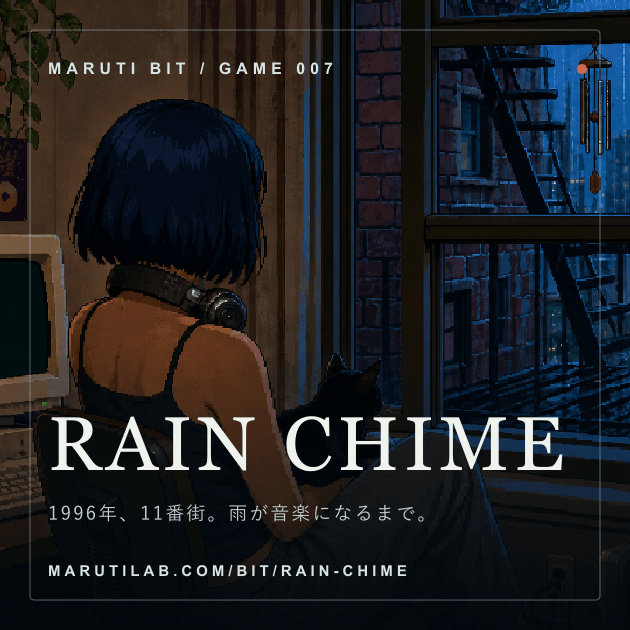
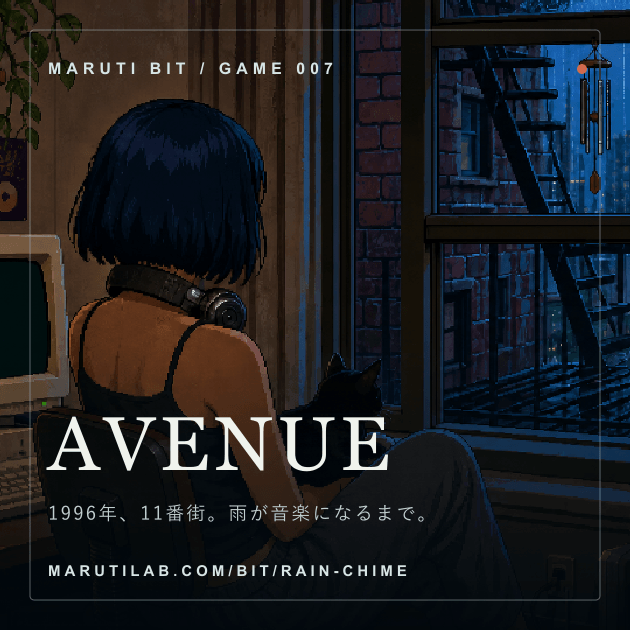
Rename RAIN CHIME to AVENUE, move controls onto the image, trim copy
- Title changed to AVENUE everywhere it's displayed (hub card, header,
  hero, entry screen, page/OGP metadata, OGP image); kana updated to
  match. Route, component, and file names untouched.
- SOUND ON/FULLSCREEN moved from a separate bar below the viewport to
  an overlay bar anchored to the bottom of the image itself.
- Removed the "ABOUT THIS ROOM" section entirely (the "no fixed loop"
  paragraph).
- Dropped "1996年のニューヨーク。" from the hero copy.

Changed region(s): [[0.4524, 0.6635, 0.9048, 0.754], [0.0603, 0.6635, 0.4222, 0.754]]

diff --git a/app/bit/RainChimeGame.module.css b/app/bit/RainChimeGame.module.css
@@ -57,19 +57,15 @@
 .entryActions button { min-height: 48px; border: 1px solid #70939a; background: transparent; color: #dce9e8; font: 700 10px/1 "Yu Gothic UI", sans-serif; letter-spacing: .13em; cursor: pointer; }
 .entryActions button:first-child { border-color: #b46450; background: #a84d3c; color: #fff; }
 .entryActions button:active { transform: translateY(1px); }
-.controls { min-height: 54px; display: flex; align-items: center; justify-content: space-between; gap: 18px; padding: 0 clamp(14px, 3vw, 34px); border-top: 1px solid #26363d; background: #081218; color: #769098; }
-.controls p { margin: 0; font: 600 8px/1.6 "Courier New", monospace; letter-spacing: .16em; }
-.buttons { display: flex; align-items: stretch; gap: 1px; }
-.buttons button { min-height: 34px; padding: 0 13px; border: 1px solid #30454d; background: transparent; color: #95abb0; font: 700 8px/1 "Yu Gothic UI", sans-serif; letter-spacing: .12em; cursor: pointer; }
+.controls { position: absolute; z-index: 6; left: 0; right: 0; bottom: 0; min-height: 54px; display: flex; align-items: center; justify-content: space-between; gap: 18px; padding: 0 clamp(14px, 3vw, 34px); background: linear-gradient(0deg, rgba(3, 9, 13, .82), rgba(3, 9, 13, .5) 78%, transparent); color: #a9bec2; pointer-events: none; }
+.controls p { margin: 0; font: 600 8px/1.6 "Courier New", monospace; letter-spacing: .16em; text-shadow: 0 1px 3px #000; }
+.buttons { display: flex; align-items: stretch; gap: 1px; pointer-events: auto; }
+.buttons button { min-height: 34px; padding: 0 13px; border: 1px solid rgba(149, 171, 176, .4); background: rgba(8, 18, 24, .55); color: #cddcde; font: 700 8px/1 "Yu Gothic UI", sans-serif; letter-spacing: .12em; cursor: pointer; }
 .buttons button[aria-pressed="true"] { border-color: #65a67c; color: #8bd6a4; }
 .pause { position: absolute; z-index: 10; inset: 0; display: grid; place-items: center; background: rgba(3, 9, 13, .8); }
 .pause div { text-align: center; }
 .pause p { margin: 0 0 18px; color: #9db2b5; font: 600 10px/1 "Courier New", monospace; letter-spacing: .2em; }
 .pause button { padding: 15px 24px; border: 1px solid #7fa0a5; background: #0b1a21; color: #e5eeee; font: 700 10px/1 "Yu Gothic UI", sans-serif; letter-spacing: .14em; cursor: pointer; }
-.note { display: grid; grid-template-columns: .5fr 1fr; gap: clamp(28px, 6vw, 90px); padding: clamp(54px, 8vw, 96px) clamp(24px, 8vw, 110px); border-top: 1px solid #26363d; background: #0a151b; }
-.note p { margin: 0; color: #6f8b90; font: 600 8px/1 "Courier New", monospace; letter-spacing: .2em; }
-.note div { color: #a7bbbd; font: 400 13px/2 "Yu Gothic UI", sans-serif; }
-.note strong { display: block; margin-bottom: 18px; color: #dce8e5; font: 500 clamp(22px, 3vw, 38px)/1.5 "Yu Mincho", serif; }
 
 @media (max-width: 700px) {
   .shell { width: 100%; }
@@ -80,10 +76,7 @@
   .entryText { margin-top: 16px; line-height: 1.7; }
   .entryActions { margin-top: 18px; }
   .entryActions button { min-height: 42px; font-size: 8px; }
-  .controls { align-items: flex-start; flex-direction: column; padding-top: 12px; padding-bottom: 12px; }
-  .buttons { width: 100%; }
-  .buttons button { flex: 1; }
-  .note { grid-template-columns: 1fr; }
+  .controls p { display: none; }
 }
 
 @media (prefers-reduced-motion: reduce) {

diff --git a/app/bit/RainChimeGame.tsx b/app/bit/RainChimeGame.tsx
@@ -81,7 +81,7 @@ export function RainChimeGame() {
   }, []);
 
   return (
-    <section ref={shellRef} className={styles.shell} aria-label="RAIN CHIME 鑑賞画面">
+    <section ref={shellRef} className={styles.shell} aria-label="AVENUE 鑑賞画面">
       <div ref={viewportRef} className={styles.viewport}>
         <div ref={artboardRef} className={styles.artboard} data-scene={scene}>
           {roomFrames.map((frame) => (
@@ -106,7 +106,7 @@ export function RainChimeGame() {
           <div className={styles.entry}>
             <div className={styles.entryPanel}>
               <p className={styles.serial}>MARUTI BIT / GAME 007</p>
-              <h1>RAIN CHIME</h1>
+              <h1>AVENUE</h1>
               <p className={styles.entryText}>雨の夜を、しばらく聴く。<br />音は同じ順番では鳴りません。</p>
               <div className={styles.entryActions}>
                 <button type="button" onClick={() => void enter(true)}>LISTEN</button>
@@ -121,20 +121,15 @@ export function RainChimeGame() {
             <div><p>THE ROOM IS PAUSED</p><button type="button" onClick={() => void resume()}>RETURN TO THE ROOM</button></div>
           </div>
         )}
-      </div>
 
-      <div className={styles.controls}>
-        <p>RAIN / WIND CHIME / STEEL TONGUE DRUM<br />GENERATIVE AMBIENCE — NO FIXED LOOP</p>
-        <div className={styles.buttons}>
-          <button type="button" aria-pressed={soundOn} onClick={() => void toggleSound()}>SOUND {soundOn ? "ON" : "OFF"}</button>
-          <button type="button" onClick={() => void toggleFullscreen()}>FULLSCREEN</button>
+        <div className={styles.controls}>
+          <p>RAIN / WIND CHIME / STEEL TONGUE DRUM<br />GENERATIVE AMBIENCE — NO FIXED LOOP</p>
+          <div className={styles.buttons}>
+            <button type="button" aria-pressed={soundOn} onClick={() => void toggleSound()}>SOUND {soundOn ? "ON" : "OFF"}</button>
+            <button type="button" onClick={() => void toggleFullscreen()}>FULLSCREEN</button>
+          </div>
         </div>
       </div>
-
-      <aside className={styles.note}>
-        <p>ABOUT THIS ROOM</p>
-        <div><strong>1996年、11番街。雨が音楽になるまで。</strong>固定された曲はありません。雨、風鈴、非常階段のSteel Tongue Drumが、少しずつ違う間隔で鳴ります。猫も、気が向いたときだけ動きます。</div>
-      </aside>
     </section>
   );
 }

diff --git a/app/bit/rain-chime/page.tsx b/app/bit/rain-chime/page.tsx
@@ -4,7 +4,7 @@ import { BitHeader } from "../BitHeader";
 import { BitSeriesNav } from "../BitSeriesNav";
 import { RainChimeGame } from "../RainChimeGame";
 
-const title = "MarutiBit — RAIN CHIME（ピクセルアート・アンビエント）";
+const title = "MarutiBit — AVENUE（ピクセルアート・アンビエント）";
 const description = "1996年のニューヨーク。雨、ウインドチャイム、Steel Tongue Drumを眺めて聴くピクセルアート・アンビエント。";
 
 export const metadata: Metadata = {
@@ -16,8 +16,8 @@ export const metadata: Metadata = {
     description,
     url: "/bit/rain-chime",
     images: [
-      { url: "/og/bit/rain-chime.png", width: 1200, height: 630, alt: "MarutiBit RAIN CHIME" },
-      { url: "/og/bit/rain-chime-square.png", width: 630, height: 630, alt: "MarutiBit RAIN CHIME" },
+      { url: "/og/bit/rain-chime.png", width: 1200, height: 630, alt: "MarutiBit AVENUE" },
+      { url: "/og/bit/rain-chime-square.png", width: 630, height: 630, alt: "MarutiBit AVENUE" },
     ],
   },
   twitter: { card: "summary_large_image", title, description, images: ["/og/bit/rain-chime.png"] },
@@ -26,12 +26,12 @@ export const metadata: Metadata = {
 export default function RainChimePage() {
   return (
     <main className="bitPage">
-      <BitHeader current="RAIN CHIME" />
+      <BitHeader current="AVENUE" />
       <BitSeriesNav active="rain-chime" />
       <section className="bitIntro bitRainChimeIntro">
         <p className="bitSerial">MB / GAME 007</p>
-        <h1><span>RAIN CHIME</span></h1>
-        <p><strong>眺めるアンビエント。</strong><br />1996年のニューヨーク。雨、ウインドチャイム、タングドラムがつくる部屋の時間。</p>
+        <h1><span>AVENUE</span></h1>
+        <p><strong>眺めるアンビエント。</strong><br />雨、ウインドチャイム、タングドラムがつくる部屋の時間。</p>
       </section>
       <div className="bitGameShell">
         <RainChimeGame />

diff --git a/app/bit/games.ts b/app/bit/games.ts
@@ -5,7 +5,7 @@ export const bitGames = [
   { id: "input-rain", number: "004", name: "INPUT RAIN", kana: "インプットレイン", kind: "タイピング／フリック入力ゲーム", href: "/bit/input-rain", description: "落下する端末入力を、消える前に打ち込む。", featured: true },
   { id: "paku", number: "005", name: "PAKU", kana: "パク", kind: "エサやりゲーム", href: "/bit/paku", description: "水槽の熱帯魚に、タップで餌をあげる。", featured: false },
   { id: "liltorb", number: "006", name: "LILT ORB", kana: "リルトオーブ", kind: "粒子操作トイ", href: "/bit/liltorb", description: "触れると粒子が集まる、癒しと刺激の球体トイ。", featured: false },
-  { id: "rain-chime", number: "007", name: "RAIN CHIME", kana: "レインチャイム", kind: "ピクセルアート・アンビエント", href: "/bit/rain-chime", description: "1996年の雨の部屋で、偶然生まれる音を眺めて聴く。", featured: false },
+  { id: "rain-chime", number: "007", name: "AVENUE", kana: "アベニュー", kind: "ピクセルアート・アンビエント", href: "/bit/rain-chime", description: "1996年の雨の部屋で、偶然生まれる音を眺めて聴く。", featured: false },
 ] as const;
 
 // The home hero only teases a handful of games (not the whole, ever-growing
